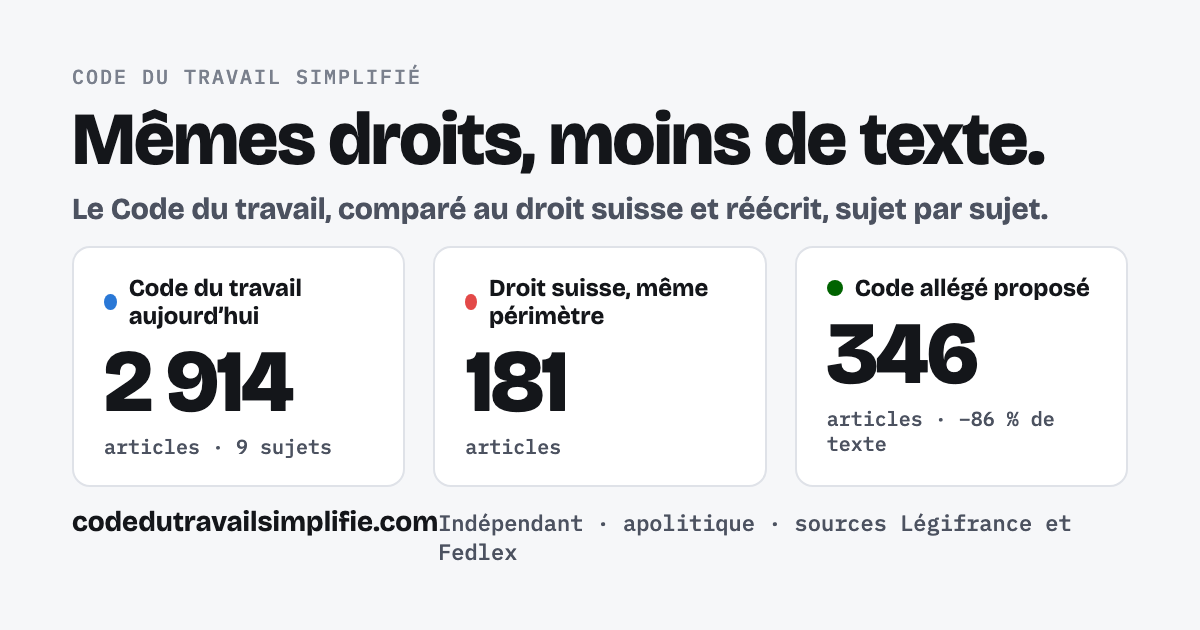
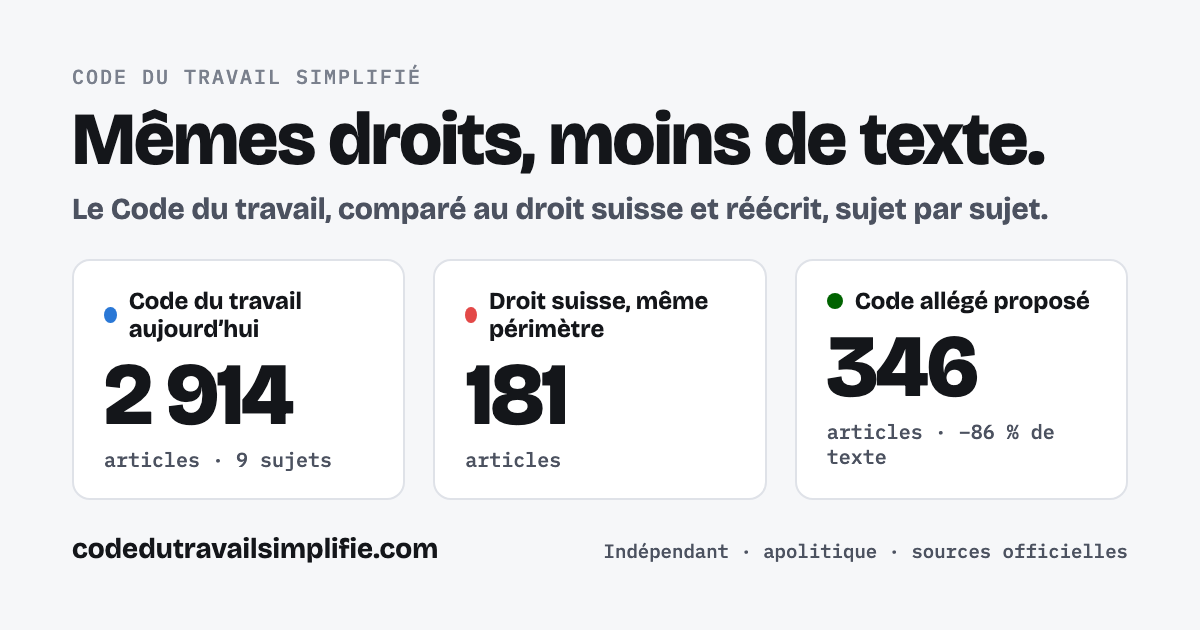
Tidy the share image footer

diff --git a/site/og.html b/site/og.html
@@ -11,7 +11,7 @@ h1{font-size:74px;font-weight:800;letter-spacing:-.02em;line-height:1;margin:14p
 .dot{width:16px;height:16px;border-radius:50%}
 .box .n{font-size:88px;font-weight:800;letter-spacing:-.03em;line-height:1;margin-top:8px}
 .box .s{font-family:"IBM Plex Mono",monospace;font-size:20px;color:#4c5260;margin-top:8px}
-.foot{display:flex;justify-content:space-between;align-items:baseline;font-family:"IBM Plex Mono",monospace;font-size:22px;color:#4c5260}
+.foot{display:flex;justify-content:space-between;align-items:baseline;gap:32px;font-family:"IBM Plex Mono",monospace;font-size:19px;color:#4c5260;white-space:nowrap}
 .foot b{color:#14161a;font-family:"Bricolage Grotesque";font-size:28px}
 </style>
 <div><div class="k">Code du travail simplifié</div><h1>Mêmes droits, moins de texte.</h1><div class="tag">Le Code du travail, comparé au droit suisse et réécrit, sujet par sujet.</div></div>
@@ -20,4 +20,4 @@ h1{font-size:74px;font-weight:800;letter-spacing:-.02em;line-height:1;margin:14p
   <div class="box"><div class="w"><span class="dot" style="background:#e34948"></span>Droit suisse, même périmètre</div><div class="n">181</div><div class="s">articles</div></div>
   <div class="box"><div class="w"><span class="dot" style="background:#006300"></span>Code allégé proposé</div><div class="n">346</div><div class="s">articles · −86 % de texte</div></div>
 </div>
-<div class="foot"><b>codedutravailsimplifie.com</b><span>Indépendant · apolitique · sources Légifrance et Fedlex</span></div>
+<div class="foot"><b>codedutravailsimplifie.com</b><span>Indépendant · apolitique · sources officielles</span></div>
